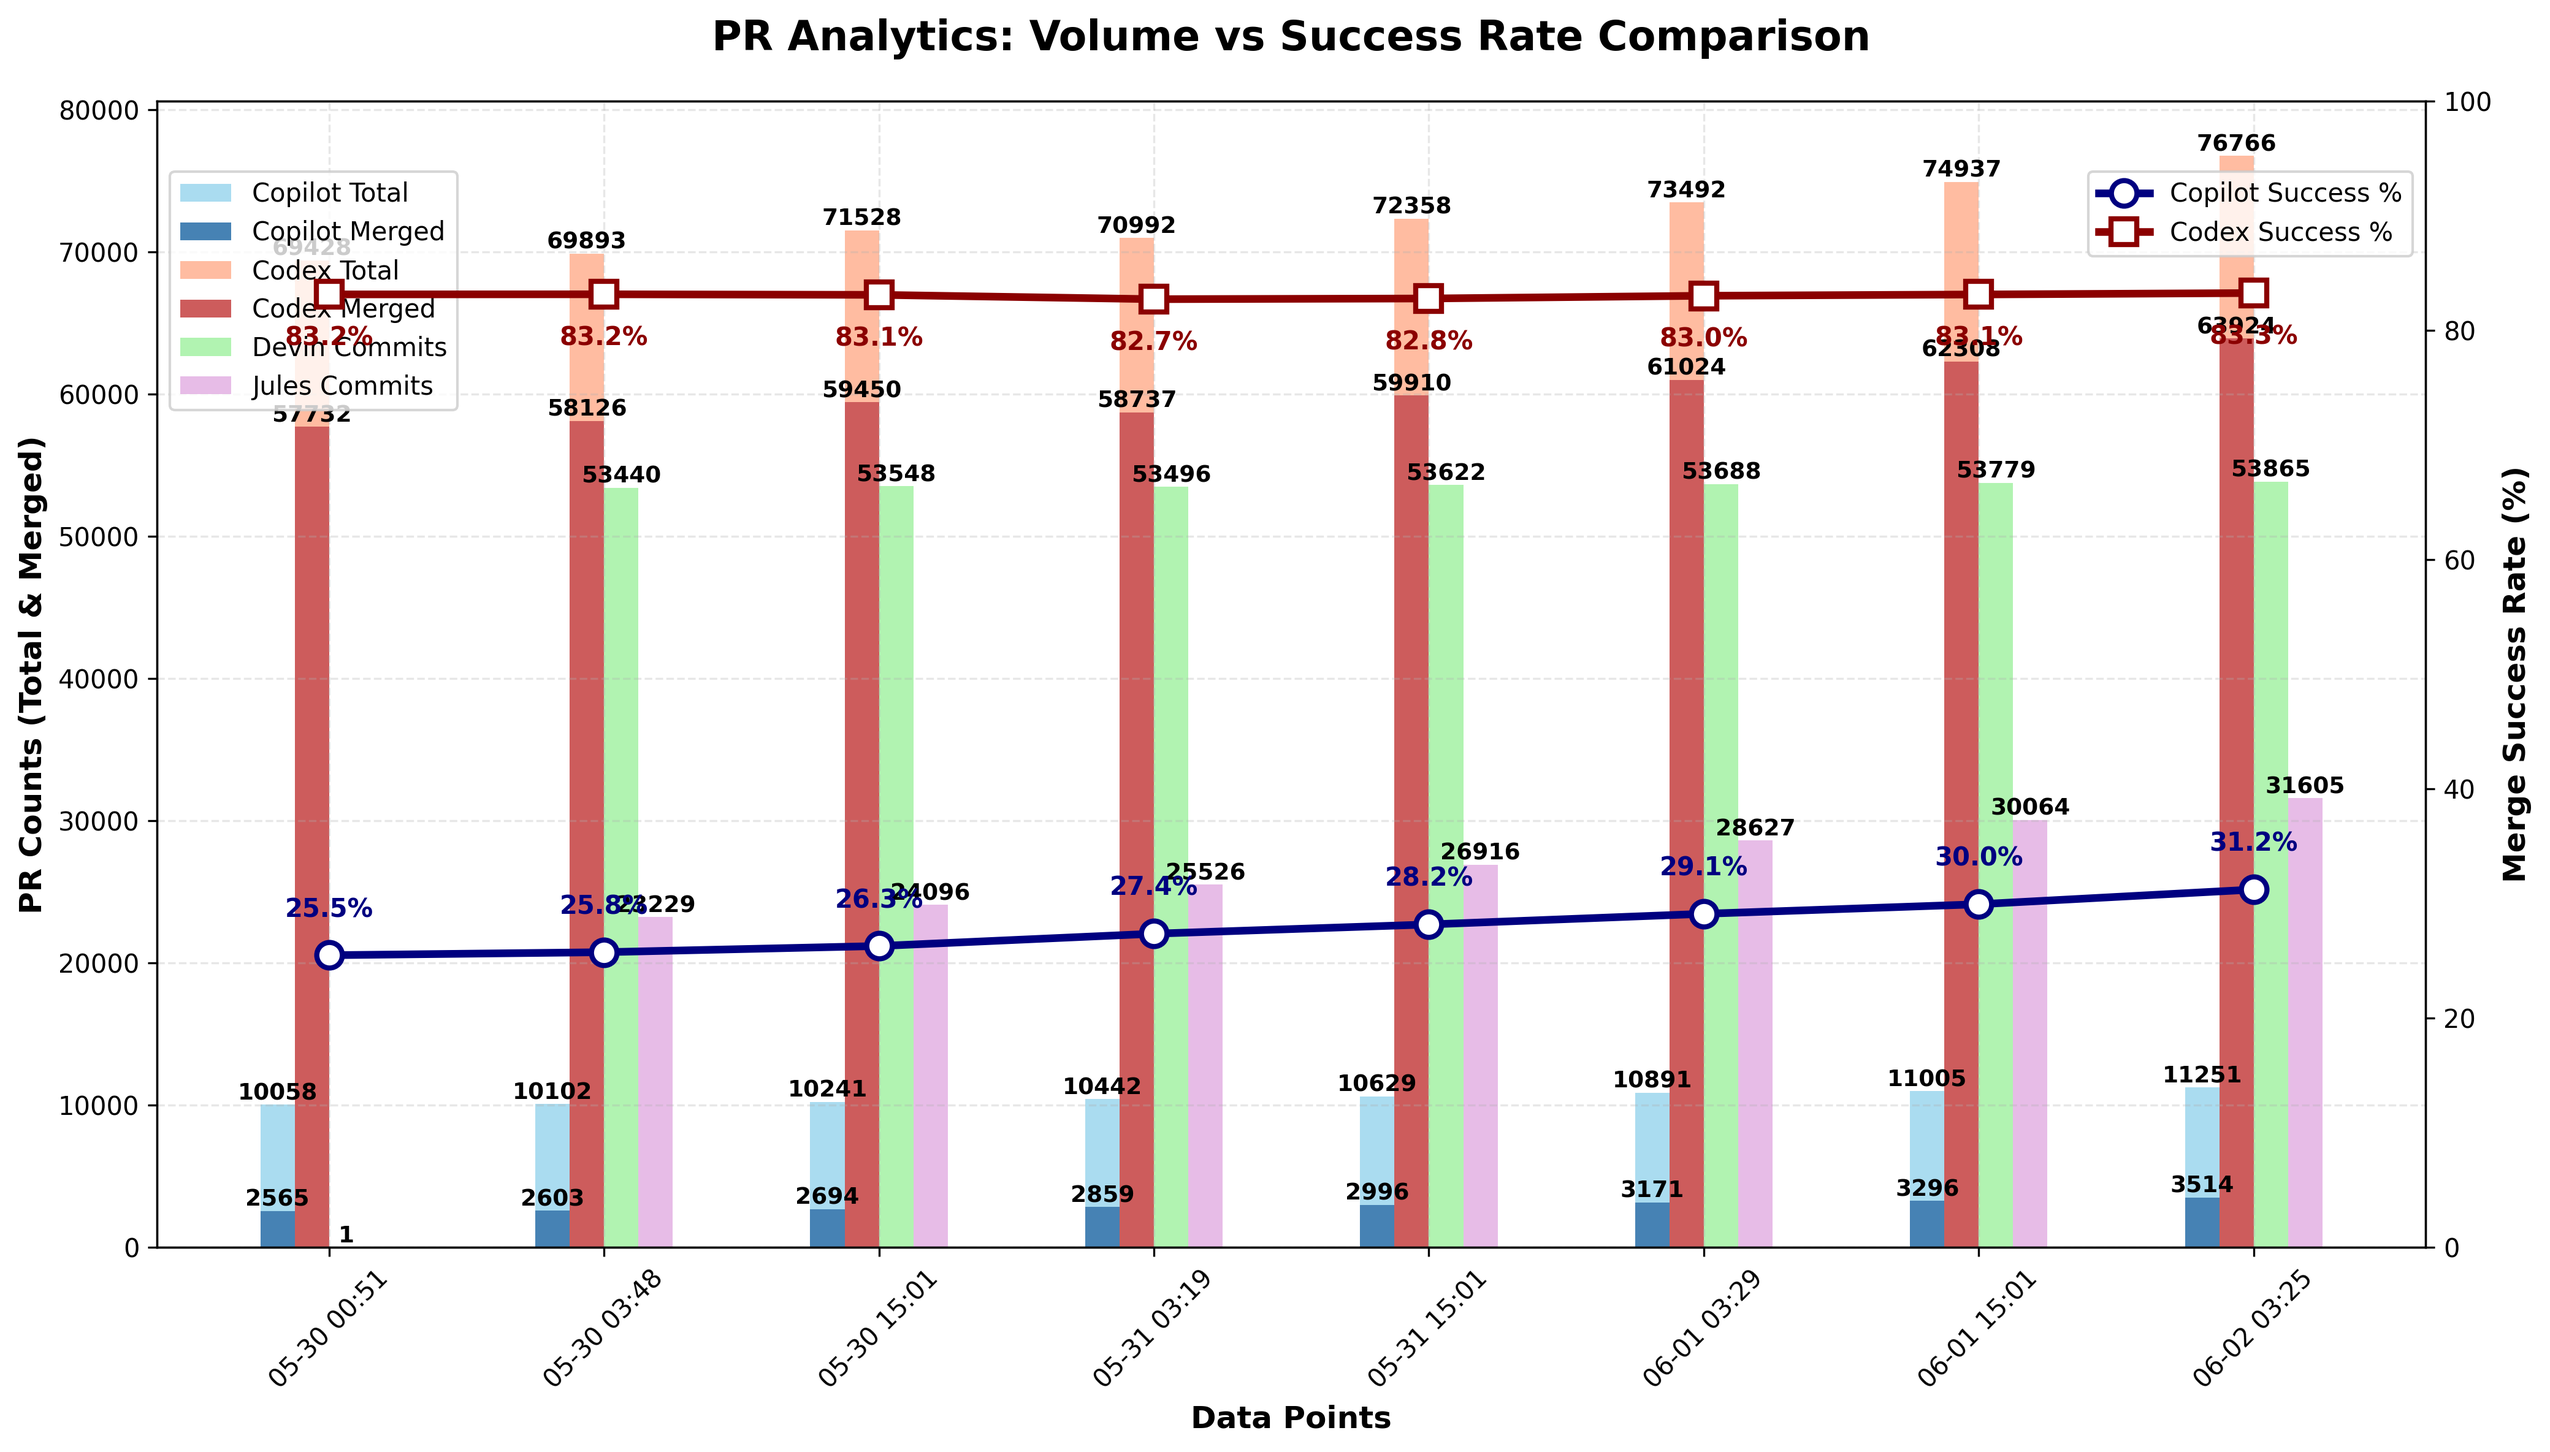
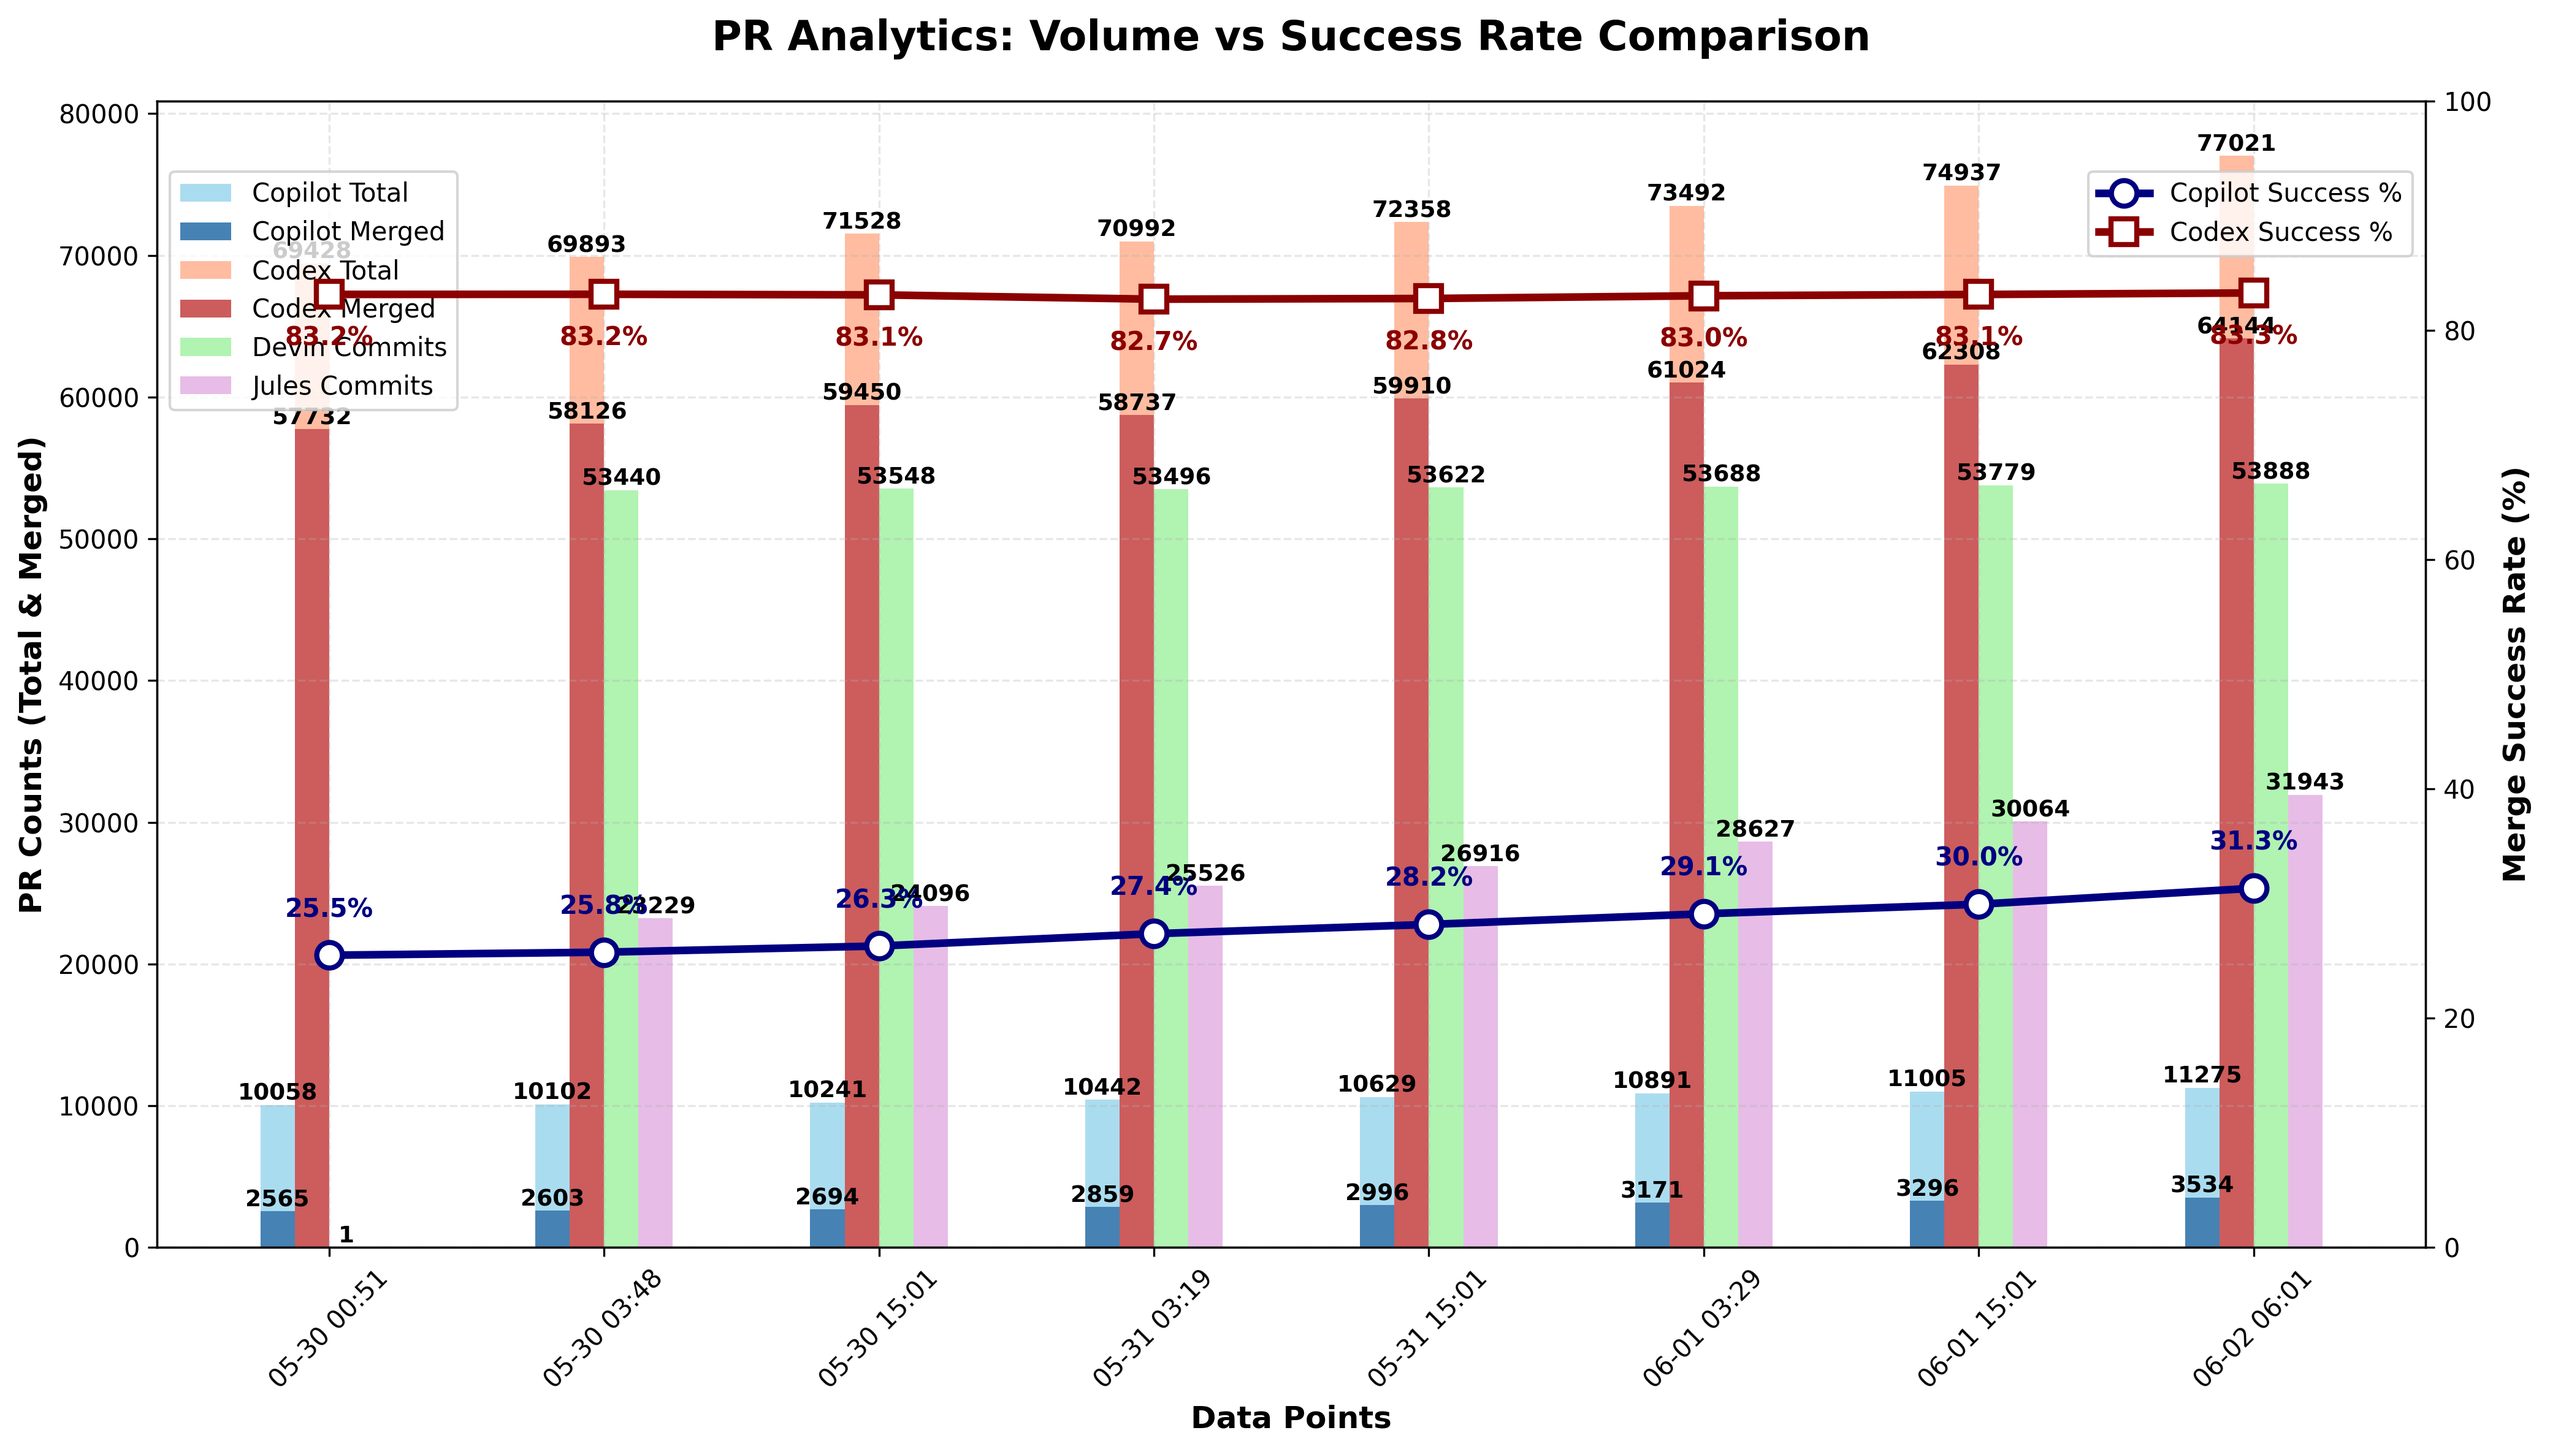
chore: update PR‑approval chart

diff --git a/docs/index.html b/docs/index.html
@@ -76,6 +76,7 @@
                         <td>N/A</td>
                         <td>N/A</td>
                         <td>N/A</td>
+                        <td>N/A</td>
                     </tr>
                     <tr>
                         <td>Codex</td>
@@ -110,27 +111,28 @@
                         <td>N/A</td>
                         <td>N/A</td>
                         <td>N/A</td>
+                        <td>N/A</td>
                     </tr>
                 <tr>
                         <td>Devin</td>
                         <td>N/A</td>
                         <td>N/A</td>
                         <td>N/A</td>
-                        <td>53,865</td>
+                        <td>53,888</td>
                     </tr>
                     <tr>
                         <td>Jules</td>
                         <td>N/A</td>
                         <td>N/A</td>
                         <td>N/A</td>
-                        <td>31,605</td>
+                        <td>31,943</td>
                     </tr>
                     </tbody>
             </table>
         </section>
 
         <footer>
-            <p>Last updated: <span id="last-updated">June 02, 2025 03:25 UTC</span></p>
+            <p>Last updated: <span id="last-updated">June 02, 2025 06:01 UTC</span></p>
             <p><a href="https://github.com/aavetis/ai-pr-watcher">View on GitHub</a></p>
         </footer>
     </div>

diff --git a/README.md b/README.md
@@ -19,7 +19,7 @@ Explore the GitHub search queries used:
 
 | Service | Total PRs | Merged PRs | Merge Rate | Total Commits |
 | ------- | --------- | ---------- | ---------- | ------------- |
-| Copilot | 11,251 | 3,514 | 31.23% | N/A           |
-| Codex   | 76,766 | 63,924 | 83.27% | N/A           |
-| Devin   | N/A       | N/A        | N/A        | 53,865 |
-| Jules   | N/A       | N/A        | N/A        | 31,605 |
+| Copilot | 11,275 | 3,534 | 31.34% | N/A           |
+| Codex   | 77,021 | 64,144 | 83.28% | N/A           |
+| Devin   | N/A       | N/A        | N/A        | 53,888 |
+| Jules   | N/A       | N/A        | N/A        | 31,943 |
